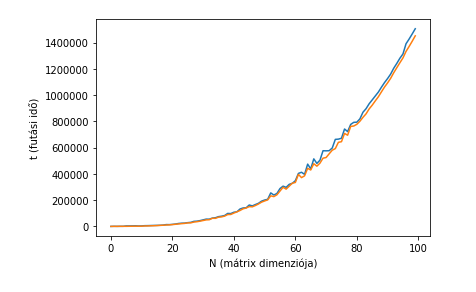
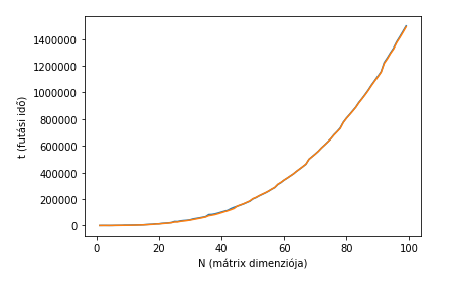
Add files via upload

diff --git a/idomeres/main.cpp b/idomeres/main.cpp
@@ -6,35 +6,29 @@
 #include <fstream>
 #include <algorithm>
 
-double f()
-    { 
-        std::random_device rd{};
-        std::mt19937 gen(rd());
-        std::normal_distribution<double> distr(100, 20);  //átlag, szórás
-        return distr(gen);
-    }
 
 
 int main(int, char**) {
+
+std::random_device rd{};
+std::mt19937 gen(rd());
+std::normal_distribution<double> distr(100, 20);  //átlag, szórás
 
 
 std::ofstream myfile("data.txt");
 
 
-for (int j=0; j<100; ++j)  //dim megadása
+for (int j=1; j<100; ++j)  //dim megadása
 {
     matrix<double> A(j);
     matrix<double> B(j);   
 
     
-    std::generate(A.begin(), A.end(), f);
-    std::generate(B.begin(), B.end(), f);
+    std::generate(A.begin(), A.end(), [&](){ return distr(gen) ;});
+    std::generate(B.begin(), B.end(), [&](){ return distr(gen) ;});
 
 
-    //std:: cout << A[0] << std:: endl;
-    //std:: cout << B(0,0) << std:: endl;
-
-    int N{5};  //hányszor végezzük el az időmérést
+    int N{100};  //hányszor végezzük el az időmérést
     std::vector<long long> T1(N);
     std::vector<long long> T2(N);
 
